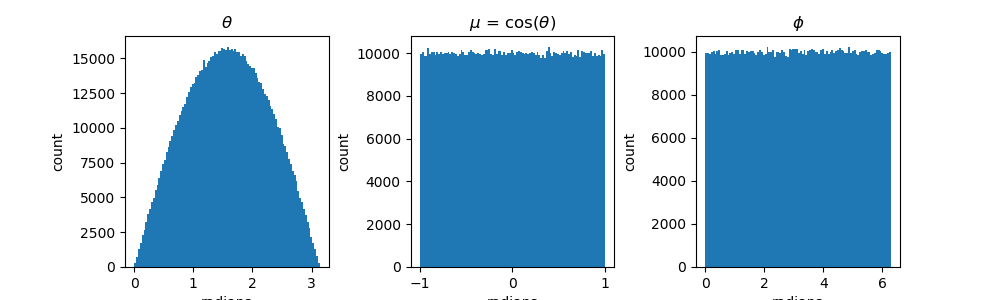
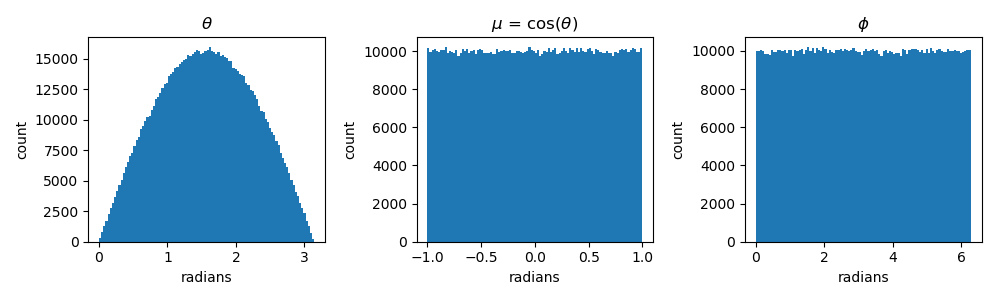
add tight-layout to plots add get_f_esc() to sim.py

diff --git a/sim.py b/sim.py
@@ -11,6 +11,27 @@ import sys
 
 def plot(fn=None):
     #just plot
+
+    wavelengths, f_esc, f_esc_err, count = get_f_esc()
+
+    plt.close('all')
+    plt.plot(wavelengths,f_esc,label="mean f_esc")
+    plt.fill_between(wavelengths,f_esc-f_esc_err,f_esc+f_esc_err,color='k',alpha=0.3,label=r"1-$\sigma$")
+    plt.xscale('log')
+    plt.legend()
+    plt.title("f_esc by wavelength (%d simulations)" %(count))
+    plt.xlabel("wavelength bin [microns]")
+    plt.ylabel("fraction of escaped photons")
+
+    if fn is None:
+        plt.show()
+    else:
+        plt.savefig(fn)
+
+def get_f_esc():
+    #read the local numpy simruns and return the wavebin, f_esc, and error arrays
+
+
     wavelengths = np.load("wavelengths.npy")
 
     simruns = glob.glob("simrun_*.npy")
@@ -36,19 +57,8 @@ def plot(fn=None):
         f_esc[i] = np.mean(bin)
         f_esc_err[i] = np.std(bin)
 
-    plt.close('all')
-    plt.plot(wavelengths,f_esc,label="mean f_esc")
-    plt.fill_between(wavelengths,f_esc-f_esc_err,f_esc+f_esc_err,color='k',alpha=0.3,label=r"1-$\sigma$")
-    plt.xscale('log')
-    plt.legend()
-    plt.title("f_esc by wavelength (%d simulations)" %(len(simruns)))
-    plt.xlabel("wavelength bin [microns]")
-    plt.ylabel("fraction of escaped photons")
+    return wavelengths, f_esc, f_esc_err, len(simruns)
 
-    if fn is None:
-        plt.show()
-    else:
-        plt.savefig(fn)
 
 def progress_bar(percent, barLen = 20):
     sys.stdout.write("\r")

diff --git a/utilities.py b/utilities.py
@@ -129,10 +129,13 @@ def test_interaction_dist(count=10000,bins=50,fn=None):
     d = np.array(d)
     d /= 3.086e18
 
+
+
     plt.title("Interaction Distances (pc)")
     plt.ylabel("count")
     plt.xlabel("distance [pc]")
     plt.hist(d, bins=bins)
+    plt.tight_layout()
 
     if fn is None:
         plt.show()
@@ -185,6 +188,8 @@ def test_direction(count=10000,bins=50,fn=None):
     plt.xlabel("radians")
     plt.hist(phi,bins=bins)
 
+    plt.tight_layout()
+
     if fn is None:
         plt.show()
     else:
@@ -209,6 +214,7 @@ def test_prob_absorb(fn=None):
     plt.xscale("log")
     plt.ylabel("Prob of Absorption")
     plt.xlabel(r"$\lambda$ [microns")
+    plt.tight_layout()
 
     if fn is None:
         plt.show()
